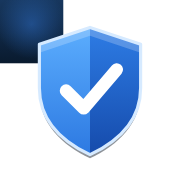
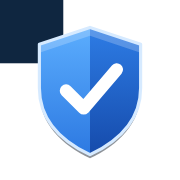
1.59.1: アイコンの背景を単色に変更
Claude-Session: https://claude.ai/code/session_012XLRKKjUyb1hVGrSknMp89

Changed region(s): [[0.0, 0.0, 0.3611, 0.25]]

diff --git a/index.html b/index.html
@@ -573,11 +573,12 @@ try{var __t=localStorage.getItem("bousai-theme-pref");if(__t==="light"||__t==="d
 
 /* ================= Version =================
    Bump on every release. Keep service-worker.js CACHE_NAME in step. */
-var APP_VERSION = "1.59.0";
+var APP_VERSION = "1.59.1";
 var APP_VERSION_DATE = "2026-10-27";
 var SEEN_KEY = "bousai-last-seen-version";
 /* 更新のお知らせ用。新しい版を上に足す(1版あたり2〜3行) */
 var RELEASE_NOTES = [
+  { v:"1.59.1", lines:["ホーム画面のアイコンの背景を、単色の紺にしました。すでにホーム画面にあるアイコンは、いったん削除して、もう一度「ホーム画面に追加」すると新しくなります。"] },
   { v:"1.59.0", lines:["アプリのタイトルの先頭に、ホーム画面のアイコンと同じ青い盾を付けました。"] },
   { v:"1.58.1", lines:["書き出しの「ファイルをダウンロード」などのボタン名を、2行にならないよう「ダウンロード」に短くしました。"] },
   { v:"1.58.0", lines:["ホーム画面のアイコンを、青い盾にチェックマークのデザインに変えました。すでにホーム画面にあるアイコンは、いったん削除して、もう一度「ホーム画面に追加」すると新しくなります。"] },

diff --git a/service-worker.js b/service-worker.js
@@ -3,7 +3,7 @@
 //   so a new version reaches users on the next online visit.
 // - Everything else (icons, manifest, web fonts) is served cache-first and filled in as it is used.
 // Bump CACHE_NAME when you want to force every client to drop its old cache.
-const CACHE_NAME = "bousai-list-1.59.0";
+const CACHE_NAME = "bousai-list-1.59.1";
 const PRECACHE = [
   "./",
   "./index.html",
